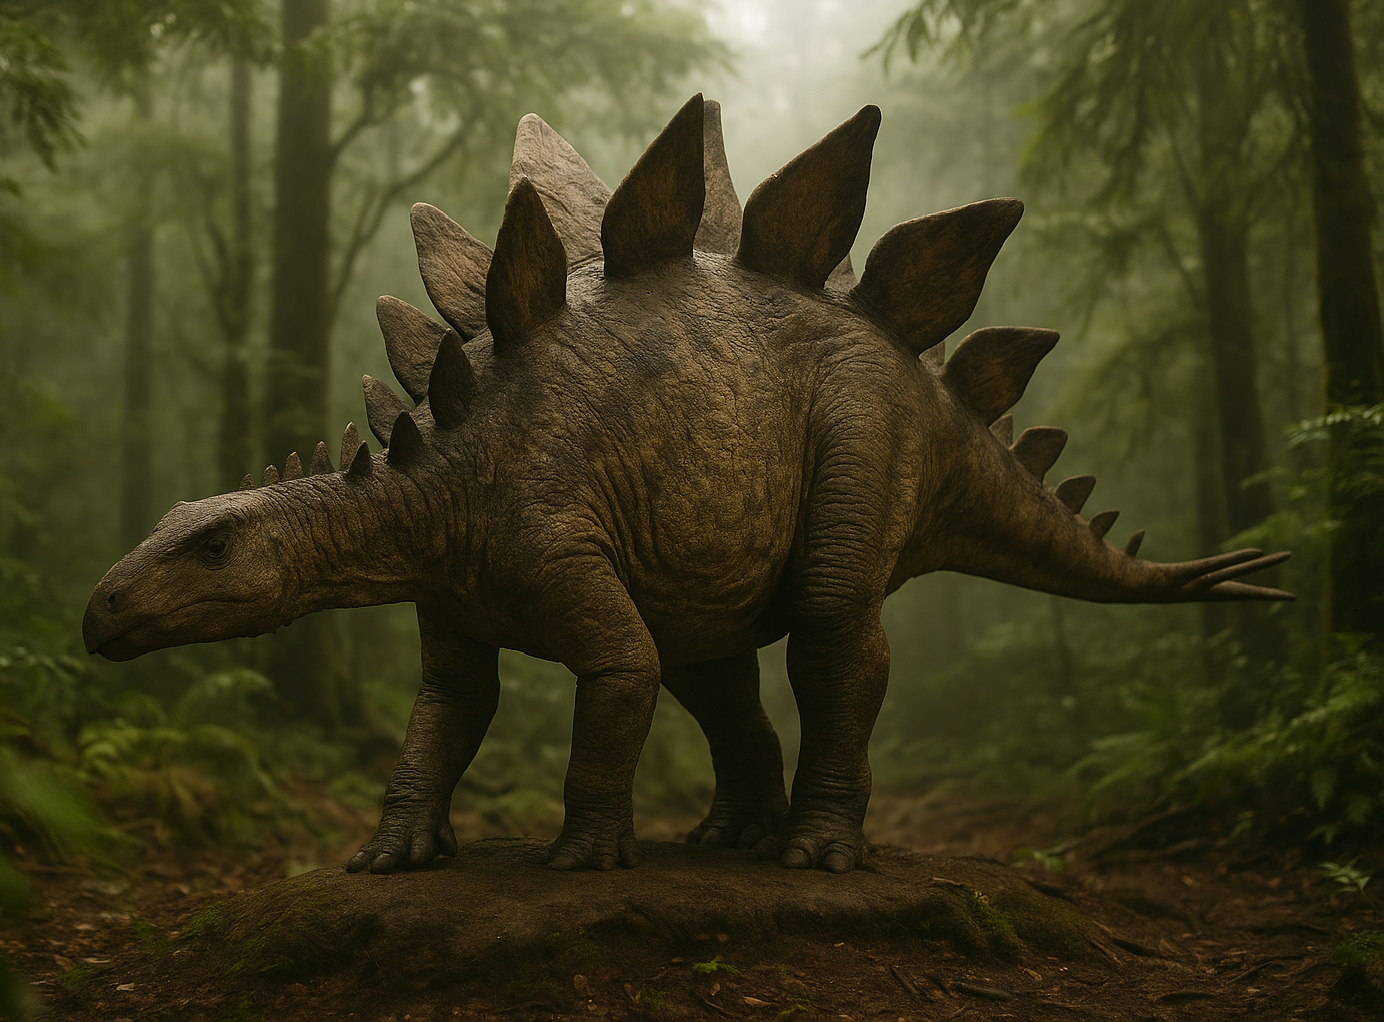
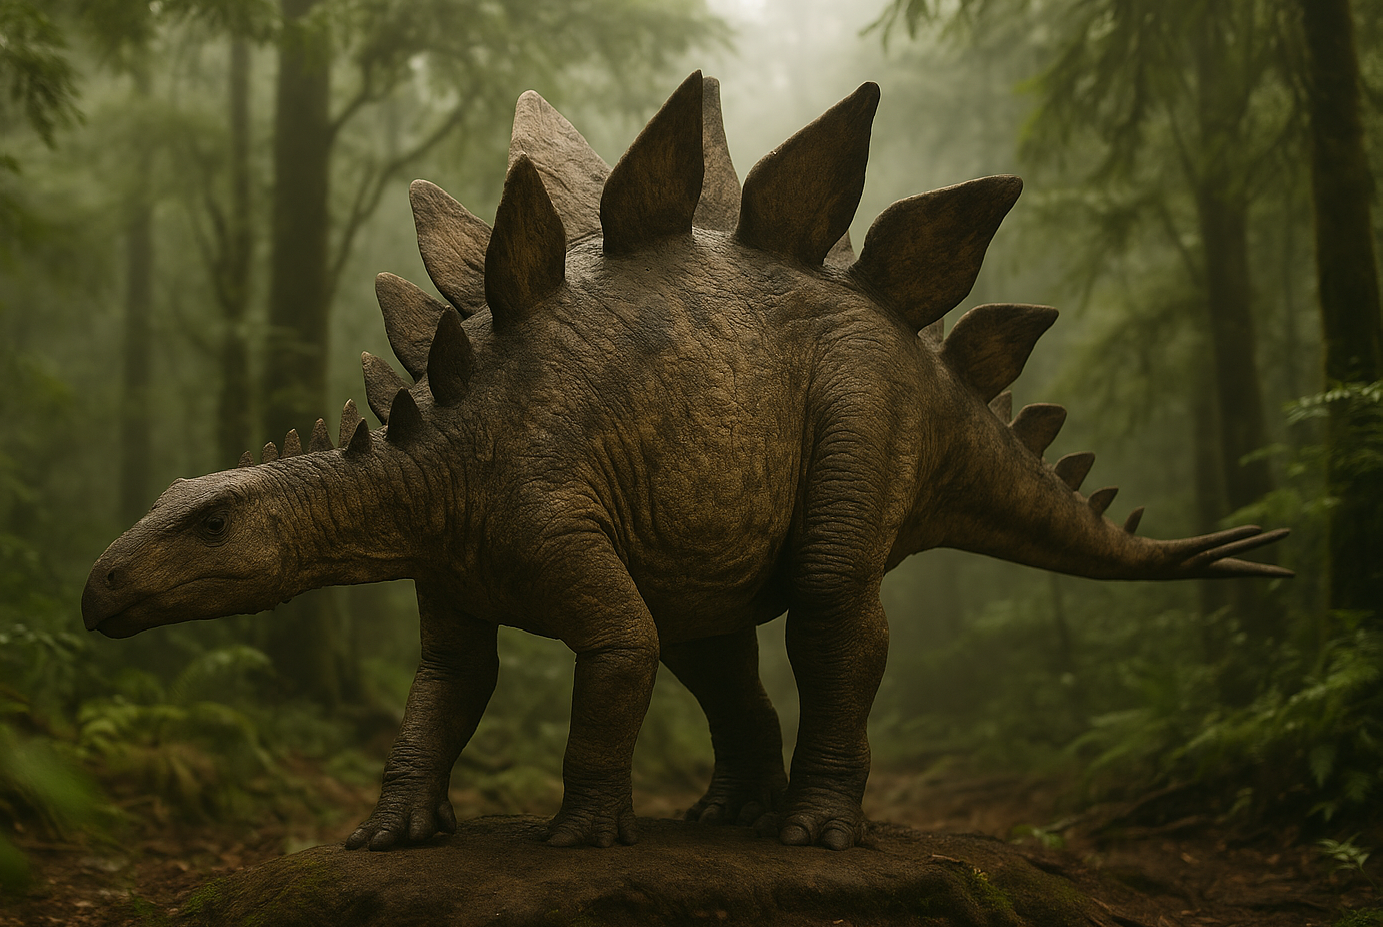
Fix image scaling

diff --git a/src/main/java/com/mesozoic/arena/ui/MainWindow.java b/src/main/java/com/mesozoic/arena/ui/MainWindow.java
@@ -8,7 +8,6 @@ import com.mesozoic.arena.model.Player;
 
 import javax.swing.*;
 import java.awt.*;
-import java.awt.image.BufferedImage;
 
 public class MainWindow extends JFrame {
     private static final String HEALTH_ICON_PATH  = "assets/icons/health.png";
@@ -94,7 +93,7 @@ public class MainWindow extends JFrame {
 
         // Image
         if (d != null) {
-            panel.image.setIcon(loadIcon(d.getImagePath(), 400, 300));
+            panel.image.setIcon(loadIcon(d.getImagePath(), 384, 256));
         } else {
             panel.image.setIcon(null);
         }
@@ -143,36 +142,10 @@ public class MainWindow extends JFrame {
 
     private ImageIcon loadIcon(String path, int w, int h) {
         java.net.URL url = getClass().getClassLoader().getResource(path);
-        if (url == null) {
-            return new ImageIcon();
-        }
-
-        ImageIcon baseIcon = new ImageIcon(url);
-        int srcWidth  = baseIcon.getIconWidth();
-        int srcHeight = baseIcon.getIconHeight();
-
-        if (srcWidth <= 0 || srcHeight <= 0) {
-            return new ImageIcon();
-        }
-
-        double scale = Math.max((double) w / srcWidth, (double) h / srcHeight);
-        int scaledWidth  = (int) Math.round(srcWidth * scale);
-        int scaledHeight = (int) Math.round(srcHeight * scale);
-
-        Image scaled = baseIcon.getImage().getScaledInstance(
-                scaledWidth, scaledHeight, Image.SCALE_SMOOTH);
-
-        BufferedImage buffer = new BufferedImage(
-                scaledWidth, scaledHeight, BufferedImage.TYPE_INT_ARGB);
-        Graphics2D g2 = buffer.createGraphics();
-        g2.drawImage(scaled, 0, 0, null);
-        g2.dispose();
-
-        int x = (scaledWidth - w) / 2;
-        int y = (scaledHeight - h) / 2;
-
-        BufferedImage cropped = buffer.getSubimage(x, y, w, h);
-        return new ImageIcon(cropped);
+        if (url == null) return new ImageIcon();
+        Image img = new ImageIcon(url).getImage()
+                .getScaledInstance(w, h, Image.SCALE_SMOOTH);
+        return new ImageIcon(img);
     }
 
     private String stageFragment(int stage, String iconPath) {
@@ -196,7 +169,7 @@ public class MainWindow extends JFrame {
         column.setLayout(new BoxLayout(column, BoxLayout.Y_AXIS));
         column.setBorder(BorderFactory.createEmptyBorder(5,5,5,5));
 
-        JLabel img = new JLabel(loadIcon(dino.getImagePath(), 120, 90));
+        JLabel img = new JLabel(loadIcon(dino.getImagePath(), 120, 80));
         img.setAlignmentX(Component.CENTER_ALIGNMENT);
 
         JLabel n = new JLabel(dino.getName());

diff --git a/src/main/java/com/mesozoic/arena/ai/LLMAgent.java b/src/main/java/com/mesozoic/arena/ai/LLMAgent.java
@@ -189,7 +189,6 @@ public class LLMAgent implements OpponentAgent, AutoCloseable {
                 "The player who knocks out all of the opponent's dinosaurs first wins the match. " +
                 getActiveDinosaurInfos(selfPlayer, enemyPlayer) +
                 getInactiveDinosaurInfos(selfPlayer, enemyPlayer) +
-                getAllEffectInfos(selfPlayer, enemyPlayer) +
                 formatHistory(history, 2) +
                 "Respond with the move name to attack or 'Switch to <name>' to switch. " +
                 "End your response with 'Answer: <move>' or 'Answer: Switch to <name>'.\nAction:";
@@ -223,38 +222,6 @@ public class LLMAgent implements OpponentAgent, AutoCloseable {
             allInfos.append("Opponent's ").append(describeDinosaurStatsAndAbility(dinosaur));
         }
         return allInfos;
-    }
-
-    private StringBuilder getAllEffectInfos(Player selfPlayer, Player enemyPlayer) {
-        Map<String, String> descriptions = EffectLoader.loadDescriptions();
-        Set<String> effectNames = collectEffectNames(selfPlayer, enemyPlayer);
-        StringBuilder info = new StringBuilder();
-        if (!effectNames.isEmpty()) {
-            info.append("Effects in play:\n");
-            for (String name : effectNames.stream().sorted().toList()) {
-                String desc = descriptions.getOrDefault(name, "");
-                info.append(name);
-                if (!desc.isBlank()) {
-                    info.append(": ").append(desc);
-                }
-                info.append("\n");
-            }
-        }
-        return info;
-    }
-
-    private Set<String> collectEffectNames(Player... players) {
-        Set<String> names = new HashSet<>();
-        for (Player player : players) {
-            for (Dinosaur dinosaur : player.getDinosaurs()) {
-                for (Move move : dinosaur.getMoves()) {
-                    for (Effect effect : move.getEffects()) {
-                        names.add(effect.getName());
-                    }
-                }
-            }
-        }
-        return names;
     }
 
     private String formatHistory(List<TurnRecord> history, int queriedHistoryTurns) {
